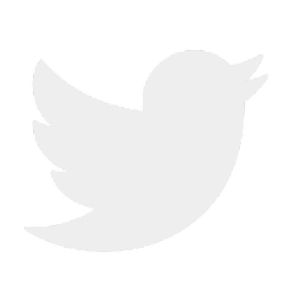
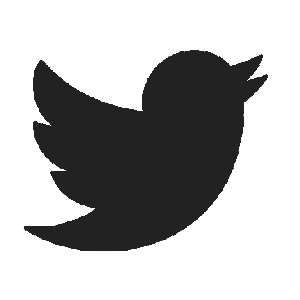
color change

diff --git a/new/style.css b/new/style.css
@@ -21,7 +21,7 @@ time, mark, audio, video {
 
 body {
     line-height:1;
-    background-color: #222;
+    background-color: #eee;
 }
 
 article,aside,details,figcaption,figure,
@@ -130,7 +130,6 @@ input, select {
   h2 {
     font-family: 'IBM Plex Sans';
     text-transform: uppercase;
-    text-decoration: underline;
     font-size: 62px;
     font-weight: 600;
   }
@@ -198,13 +197,13 @@ input, select {
 /* ----------------------------------- Header/logo Title ----------------------------------- */
 
 .header {
-    padding: 98px 0px 98px 0px;
-    border-top: .5px solid #eee;
+    padding: 198px 0px 198px 0px;
+    border-bottom: 1px solid #000;
     text-align: center;
-    color: white;
+    color: #eee;
     background-image: url("header_img.jpg");
     background-color: #222;
-    height: 1000px;
+    height: 1200px;
     background-position: center;
     background-repeat: no-repeat;
     background-size: cover;
@@ -226,7 +225,7 @@ input, select {
     padding: 200px 0px;
     width: 600px;
     text-align: left;
-    color: #eee;
+    color: #222;
 }
 
 
@@ -256,5 +255,5 @@ input, select {
 .footer {
     padding: 500px 0px 300px 0px;
     text-align: center;
-    color: #aaa;
+    color: #555;
   }
